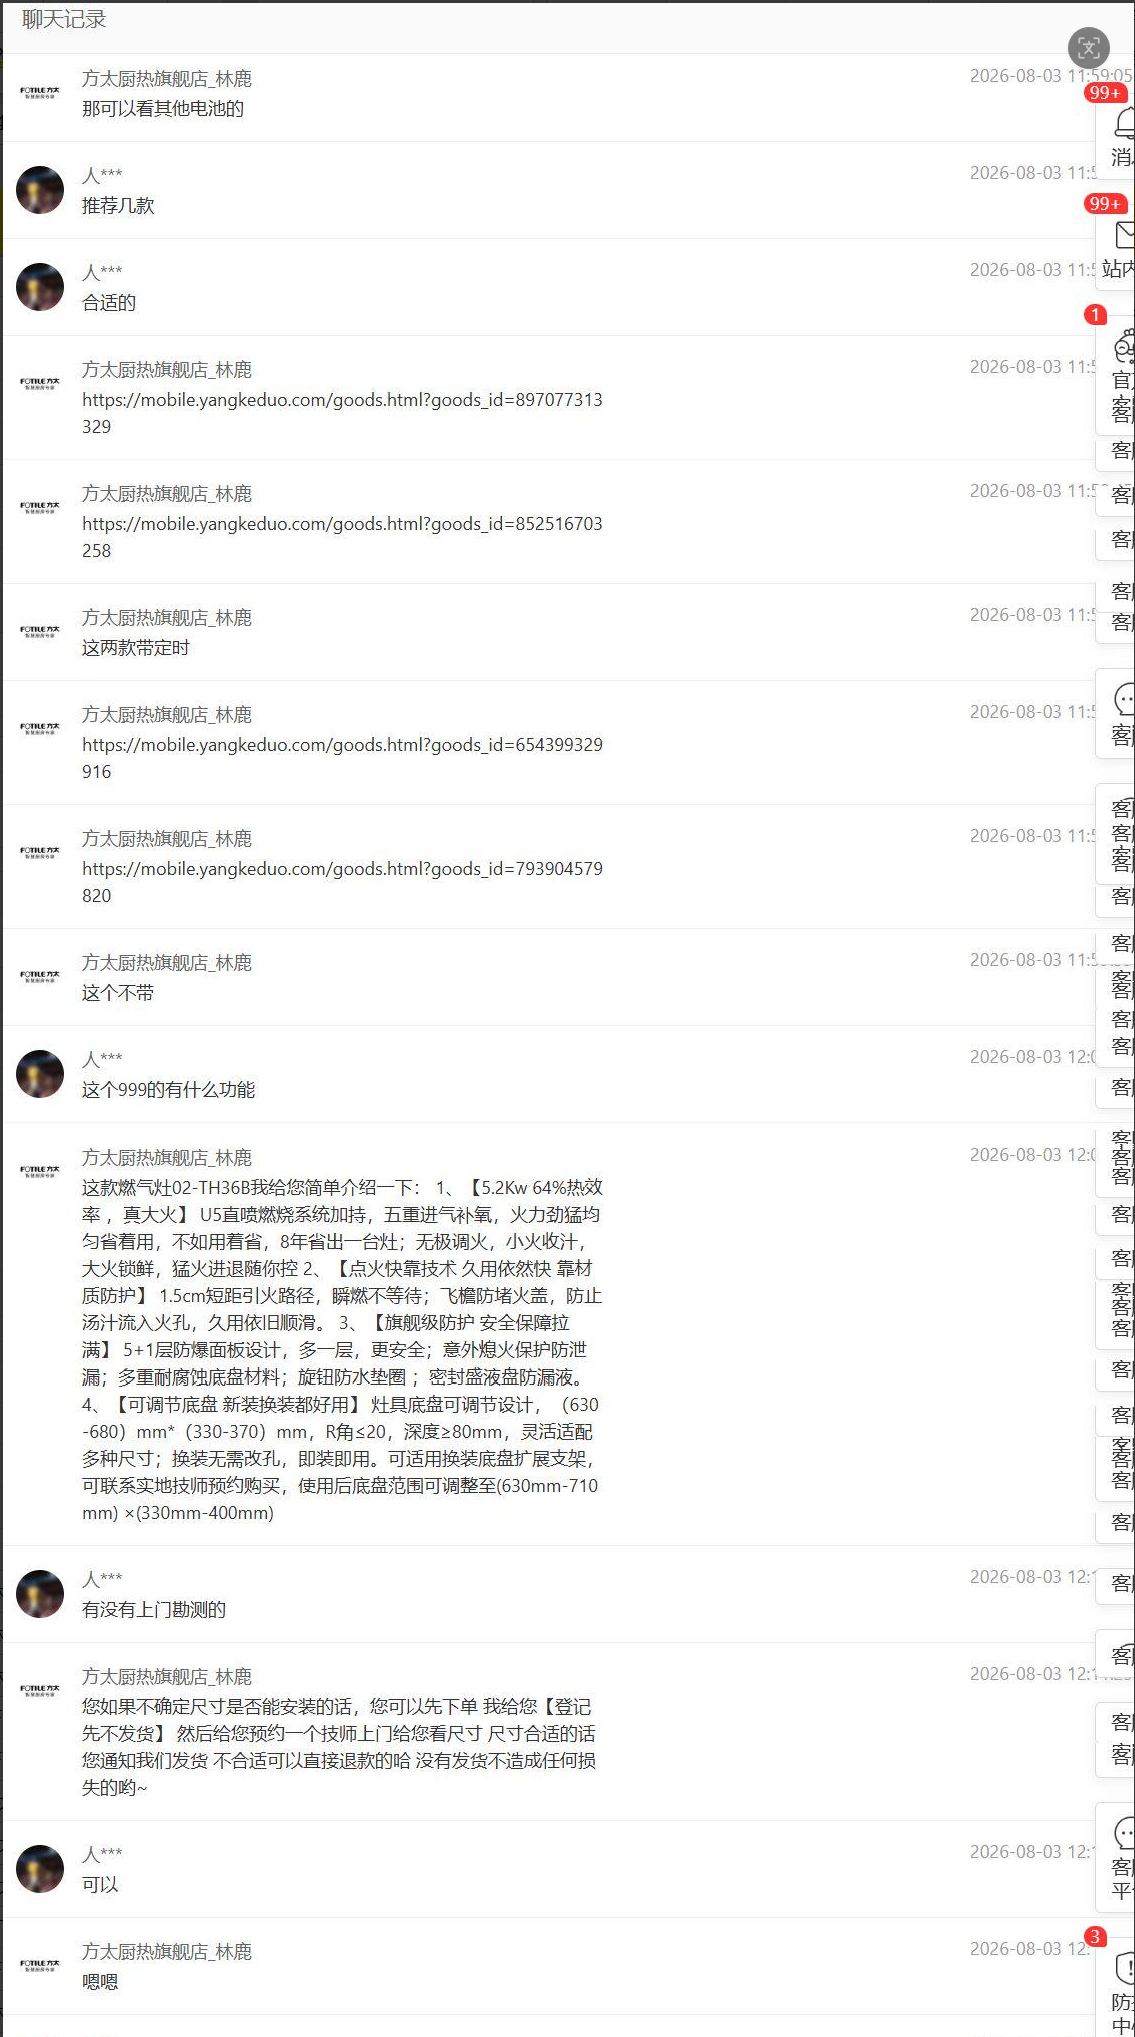
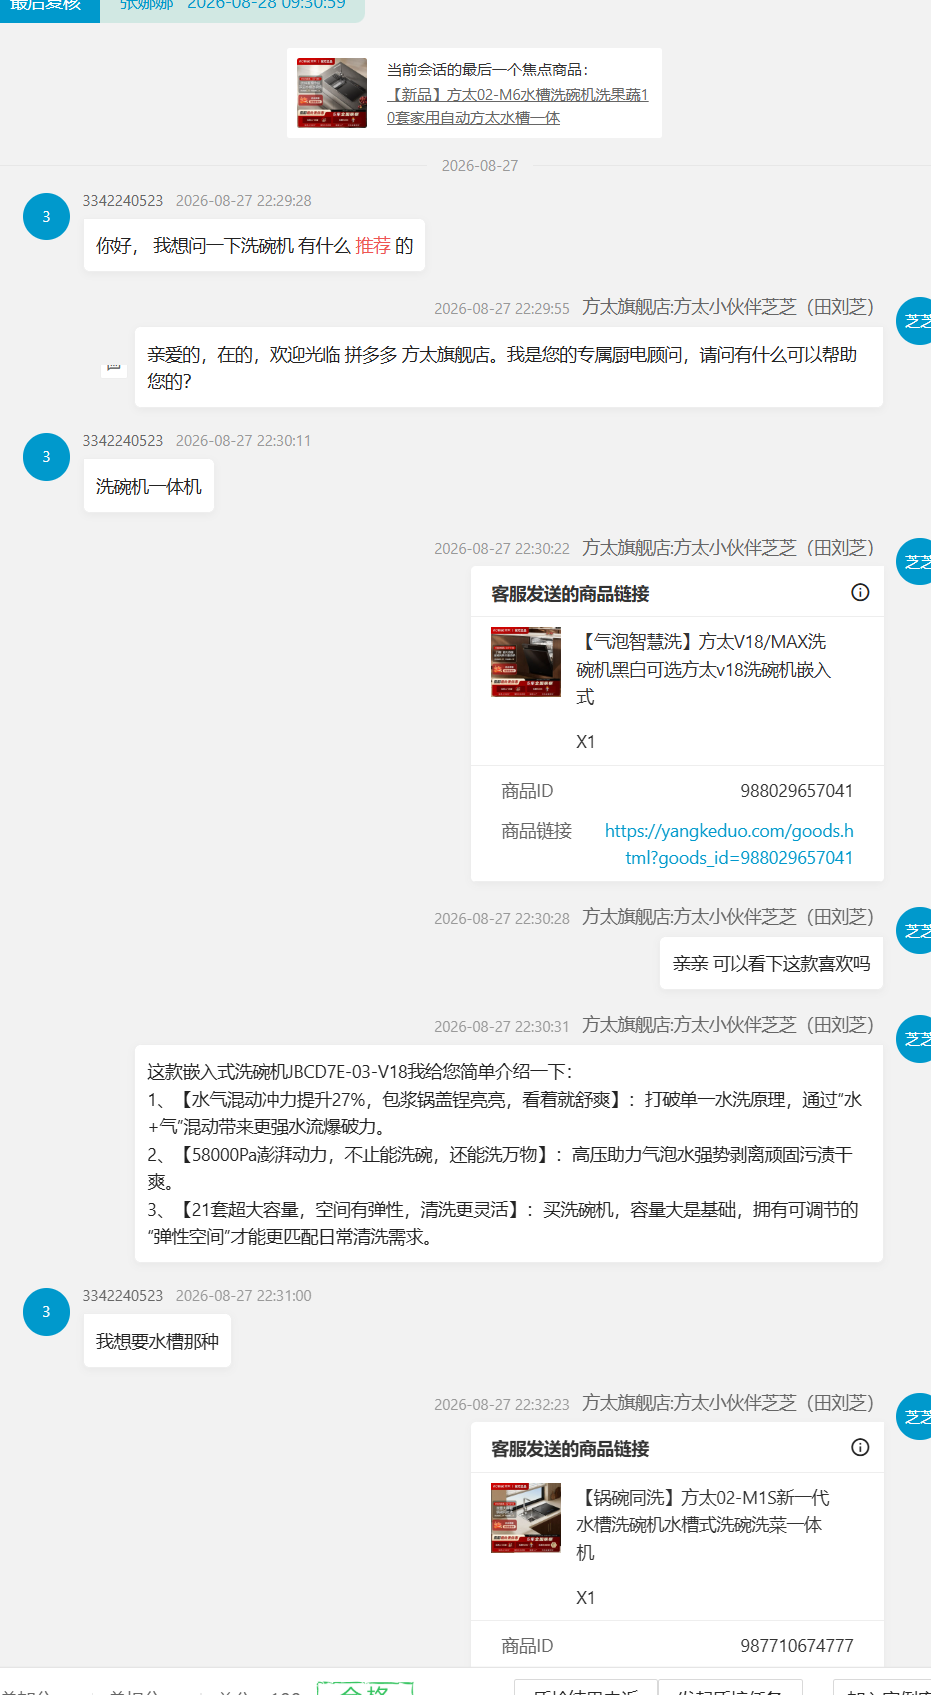
Replace needs-discovery case

diff --git a/海亿代理商客服质检数据看板.html b/海亿代理商客服质检数据看板.html
@@ -439,8 +439,8 @@ canvas{max-height:330px;}
 <div class="weak-section" id="weak-analysis">
   <div class="section-title">板块五 · 典型案例</div>
   <div class="weak-card">
-    <div class="weak-card-header"><div class="weak-card-icon weak-icon-red">1</div><div class="weak-card-title">需求挖掘</div><div class="weak-card-subtitle">未挖掘直接推荐</div></div>
-    <div class="case-item"><div class="case-item-img"><img src="haiyi-assets/needs-direct-recommendation.png" alt="需求挖掘案例：未挖掘直接推荐，点击查看完整聊天截图" loading="lazy" tabindex="0" role="button" title="点击查看完整聊天截图"></div><div class="case-item-tag case-item-tag-red">未挖掘直接推荐</div><div class="case-item-text"><b>案例说明：</b>截图中，顾客提出“推荐几款”“合适的”后，客服连续发送多款商品链接，仅简单区分是否带定时，未先追问预算、功能偏好及安装条件。直至顾客追问具体型号功能和上门勘测，才补充长段产品介绍及测量安排。<br><b>改善建议：</b>推荐前先确认顾客的预算、使用需求和安装条件，再筛选适配型号，说明推荐理由与关键差异。</div></div>
+    <div class="weak-card-header"><div class="weak-card-icon weak-icon-red">1</div><div class="weak-card-title">需求挖掘</div><div class="weak-card-subtitle">未确认需求即推荐商品</div></div>
+    <div class="case-item"><div class="case-item-img"><img src="haiyi-assets/needs-direct-recommendation.png" alt="需求挖掘案例：未确认需求即推荐商品，点击查看完整聊天截图" loading="lazy" tabindex="0" role="button" title="点击查看完整聊天截图"></div><div class="case-item-tag case-item-tag-red">未确认需求即推荐商品</div><div class="case-item-text"><b>案例说明：</b>顾客仅提出想了解“洗碗机一体机”，客服未进一步确认顾客偏好的机型、容量、安装空间及预算，便直接发送商品链接并展开产品介绍。顾客随后明确表示“我要水槽那种”，反映前期需求尚未核实清楚。<br><b>改善建议：</b>先通过机型偏好、使用人数、安装空间和预算等问题确认需求，再推荐匹配产品，并说明推荐理由与关键差异。</div></div>
   </div>
 
   <div class="weak-card weak-card--row" style="border-color:#fde68a;">
@@ -1043,7 +1043,7 @@ trendLine('chartTrendRate', TREND.rate_by_channel, TREND.rate_overall, 100, true
  const fourCanvas=qs('#chartFour'), fourChartGrid=fourCanvas.closest('.grid-2'); fourChartGrid.style.gridTemplateColumns='1fr'; const fourChart=Chart.getChart&&Chart.getChart(fourCanvas); if(fourChart)fourChart.resize();
  scoreTrendGrid.insertAdjacentHTML('afterend','<div class="matrix-note"><b>趋势小结：</b>两家有历史数据店铺的服务态度均保持在 7 分；方太电器旗舰店需求挖掘在 8 月降至 3.50 分，应优先补齐需求确认动作。</div>');
  const rateTrendGrid=qsa('.score-trend-grid')[1]; rateTrendGrid.classList.add('score-trend-grid--three'); rateTrendCard.classList.add('score-trend-card'); rateTrendCard.style.margin='0'; rateTrendCanvas.style.height='220px'; rateTrendGrid.prepend(rateTrendCard); if(rateTrendChart)rateTrendChart.resize(); const checkBarGrid=checkCanvas.closest('.grid-2'); checkBarGrid.style.gridTemplateColumns='1fr'; const checkBarChart=Chart.getChart&&Chart.getChart(checkCanvas); if(checkBarChart)checkBarChart.resize();
- const weak=qs('#weak-analysis'); weak.outerHTML="<div class=\"weak-section\" id=\"weak-analysis\">\n  <div class=\"section-title\">板块五 · 典型案例</div>\n  <div class=\"weak-card\">\n    <div class=\"weak-card-header\"><div class=\"weak-card-icon weak-icon-red\">1</div><div class=\"weak-card-title\">需求挖掘</div><div class=\"weak-card-subtitle\">未挖掘直接推荐</div></div>\n    <div class=\"case-item\"><div class=\"case-item-img\"><img src=\"haiyi-assets/needs-direct-recommendation.png\" alt=\"需求挖掘案例：未挖掘直接推荐，点击查看完整聊天截图\" loading=\"lazy\" tabindex=\"0\" role=\"button\" title=\"点击查看完整聊天截图\"></div><div class=\"case-item-tag case-item-tag-red\">未挖掘直接推荐</div><div class=\"case-item-text\"><b>案例说明：</b>截图中，顾客提出“推荐几款”“合适的”后，客服连续发送多款商品链接，仅简单区分是否带定时，未先追问预算、功能偏好及安装条件。直至顾客追问具体型号功能和上门勘测，才补充长段产品介绍及测量安排。<br><b>改善建议：</b>推荐前先确认顾客的预算、使用需求和安装条件，再筛选适配型号，说明推荐理由与关键差异。</div></div>\n  </div>\n\n  <div class=\"weak-card weak-card--row\" style=\"border-color:#fde68a;\">\n    <div class=\"weak-card-header\"><div class=\"weak-card-icon weak-icon-orange\">2</div><div class=\"weak-card-title\">推荐介绍</div><div class=\"weak-card-subtitle\">会话备注中出现最频繁的表达问题 · 8 项</div></div>\n    <div class=\"case-item\"><div class=\"case-item-img\"><img src=\"haiyi-assets/recommendation-long-text.png\" alt=\"推荐介绍案例：使用长段话术，未使用物料图\" loading=\"lazy\" tabindex=\"0\" role=\"button\" title=\"点击查看完整聊天截图\"></div><div class=\"case-item-tag case-item-tag-orange\">使用长段话术，未使用物料图</div><div class=\"case-item-text\"><b>案例说明：</b>顾客提出“讲讲它的功能”后，客服一次性发送包含控烟、风量风压、降噪、烟灶联动及清洁等多项内容的长段介绍；截图所示介绍未搭配物料图辅助说明，功能信息密集，顾客难以快速抓住重点，随后客服直接转入催单话术。<br><b>改善建议：</b>先确认顾客最关注的功能，分点介绍核心卖点，并搭配对应的功能物料图，说明对实际使用的帮助，再确认顾客是否理解、是否还有疑问。</div></div>\n    <div class=\"case-item\"><div class=\"case-item-img\"><img src=\"haiyi-assets/recommendation-no-visual.png\" alt=\"推荐介绍案例：推荐介绍未使用物料图，点击查看完整聊天截图\" loading=\"lazy\" tabindex=\"0\" role=\"button\" title=\"点击查看完整聊天截图\"></div><div class=\"case-item-tag case-item-tag-orange\">推荐介绍未使用物料图</div><div class=\"case-item-text\"><b>案例说明：</b>顾客明确提出所在楼层及“味道少、不呛人、厨房台面少沾油污”的需求，客服推荐 F3，发送商品卡片并以文字介绍风量、静压和联动等参数。截图中未见针对排烟、控烟效果的功能物料图辅助讲解，对这些功能如何解决顾客实际问题的解释不足。商品卡片虽包含商品图片，但未起到专项功能说明的作用。<br><b>改善建议：</b>围绕顾客关注的排烟和控烟效果，搭配对应的功能示意图或演示物料，逐项说明卖点与需求的对应关系，并结合安装环境确认适配性。</div></div>\n  </div>\n\n  <div class=\"weak-card\">\n    <div class=\"weak-card-header\"><div class=\"weak-card-icon weak-icon-blue\">3</div><div class=\"weak-card-title\">网点核对与尺寸核对</div></div>\n    <div class=\"case-list\">\n    <div class=\"case-item\"><div class=\"card-title\">网点核对</div><div class=\"case-item-img\"><img src=\"haiyi-assets/network-installation-address.png\" alt=\"网点未核对：顾客询问安装，客服未询问地址，仅发送安装话术\" loading=\"lazy\" tabindex=\"0\" role=\"button\" title=\"点击查看完整聊天截图\"></div><div class=\"case-item-tag case-item-tag-blue\">未询问地址，仅发送安装话术</div><div class=\"case-item-text\"><b>案例说明：</b>顾客询问“价格包安装？质保多少年？”，客服回复服务范围内免费安装、预约方式及费用提示，但截图所示回复未先询问顾客地址，也未确认该地址是否在服务覆盖范围内。<br><b>改善建议：</b>先询问安装所在的省、市、区县及乡镇或街道，核实服务覆盖情况后，再说明安装预约流程及费用范围。</div></div>\n    <div class=\"case-item\"><div class=\"card-title\">尺寸核对</div><div class=\"case-item-img\"><img src=\"haiyi-assets/dimensions-no-product-diagram.png\" alt=\"尺寸未核对：顾客看好款式后，未发送对应产品尺寸图完成确认\" loading=\"lazy\" tabindex=\"0\" role=\"button\" title=\"点击查看完整聊天截图\"></div><div class=\"case-item-tag case-item-tag-blue\">尺寸未核对 · 未发送对应产品尺寸图</div><div class=\"case-item-text\"><b>案例说明：</b>顾客已明确看好款式（用户补充背景）。截图中客服询问“家里尺寸预留好了嘛”，顾客表示“确定了就按照这个尺寸留”，客服仅回复确认并转入安装时间及下单话题；所示片段未见发送对应型号的产品尺寸图，也未见对具体预留尺寸进行核实，尺寸确认尚未完成。<br><b>改善建议：</b>顾客明确款式后，主动发送对应型号的产品尺寸及安装尺寸图，说明关键预留要求，并请顾客确认实际空间或装修预留方案是否匹配。</div></div>\n    </div>\n  </div>\n  <div class=\"weak-card\">\n    <div class=\"weak-card-header\"><div class=\"weak-card-icon weak-icon-red\">4</div><div class=\"weak-card-title\">风险案例</div><div class=\"weak-card-subtitle\">每日留言跟进</div></div>\n    <div class=\"case-item\"><div class=\"case-item-img\"><img src=\"haiyi-assets/risk-daily-follow-up.png\" alt=\"风险案例：每日留言跟进，点击放大查看完整聊天记录\" loading=\"lazy\" tabindex=\"0\" role=\"button\" title=\"点击查看完整聊天截图\"></div><div class=\"case-item-tag case-item-tag-red\">每日留言跟进 · 缺少回复仍持续触达</div><div class=\"case-item-text\"><b>案例说明：</b>截图所示记录中，顾客前期咨询后，客服在后续多日持续发送促销、产品介绍、活动物料及催单留言，期间未见顾客进一步回复。跟进未随客户反馈调整节奏，存在重复打扰、引发反感或投诉的风险。<br><b>改善建议：</b>结合顾客购买计划约定下次联系时间；客户未回复时适当拉长跟进间隔，减少重复促销信息，仅在有针对性的新信息或约定节点进行联系；客户明确拒绝后停止营销跟进。</div></div>\n  </div>\n</div>";
+ const weak=qs('#weak-analysis'); weak.outerHTML="<div class=\"weak-section\" id=\"weak-analysis\">\n  <div class=\"section-title\">板块五 · 典型案例</div>\n  <div class=\"weak-card\">\n    <div class=\"weak-card-header\"><div class=\"weak-card-icon weak-icon-red\">1</div><div class=\"weak-card-title\">需求挖掘</div><div class=\"weak-card-subtitle\">未确认需求即推荐商品</div></div>\n    <div class=\"case-item\"><div class=\"case-item-img\"><img src=\"haiyi-assets/needs-direct-recommendation.png\" alt=\"需求挖掘案例：未确认需求即推荐商品，点击查看完整聊天截图\" loading=\"lazy\" tabindex=\"0\" role=\"button\" title=\"点击查看完整聊天截图\"></div><div class=\"case-item-tag case-item-tag-red\">未确认需求即推荐商品</div><div class=\"case-item-text\"><b>案例说明：</b>顾客仅提出想了解“洗碗机一体机”，客服未进一步确认顾客偏好的机型、容量、安装空间及预算，便直接发送商品链接并展开产品介绍。顾客随后明确表示“我要水槽那种”，反映前期需求尚未核实清楚。<br><b>改善建议：</b>先通过机型偏好、使用人数、安装空间和预算等问题确认需求，再推荐匹配产品，并说明推荐理由与关键差异。</div></div>\n  </div>\n\n  <div class=\"weak-card weak-card--row\" style=\"border-color:#fde68a;\">\n    <div class=\"weak-card-header\"><div class=\"weak-card-icon weak-icon-orange\">2</div><div class=\"weak-card-title\">推荐介绍</div><div class=\"weak-card-subtitle\">会话备注中出现最频繁的表达问题 · 8 项</div></div>\n    <div class=\"case-item\"><div class=\"case-item-img\"><img src=\"haiyi-assets/recommendation-long-text.png\" alt=\"推荐介绍案例：使用长段话术，未使用物料图\" loading=\"lazy\" tabindex=\"0\" role=\"button\" title=\"点击查看完整聊天截图\"></div><div class=\"case-item-tag case-item-tag-orange\">使用长段话术，未使用物料图</div><div class=\"case-item-text\"><b>案例说明：</b>顾客提出“讲讲它的功能”后，客服一次性发送包含控烟、风量风压、降噪、烟灶联动及清洁等多项内容的长段介绍；截图所示介绍未搭配物料图辅助说明，功能信息密集，顾客难以快速抓住重点，随后客服直接转入催单话术。<br><b>改善建议：</b>先确认顾客最关注的功能，分点介绍核心卖点，并搭配对应的功能物料图，说明对实际使用的帮助，再确认顾客是否理解、是否还有疑问。</div></div>\n    <div class=\"case-item\"><div class=\"case-item-img\"><img src=\"haiyi-assets/recommendation-no-visual.png\" alt=\"推荐介绍案例：推荐介绍未使用物料图，点击查看完整聊天截图\" loading=\"lazy\" tabindex=\"0\" role=\"button\" title=\"点击查看完整聊天截图\"></div><div class=\"case-item-tag case-item-tag-orange\">推荐介绍未使用物料图</div><div class=\"case-item-text\"><b>案例说明：</b>顾客明确提出所在楼层及“味道少、不呛人、厨房台面少沾油污”的需求，客服推荐 F3，发送商品卡片并以文字介绍风量、静压和联动等参数。截图中未见针对排烟、控烟效果的功能物料图辅助讲解，对这些功能如何解决顾客实际问题的解释不足。商品卡片虽包含商品图片，但未起到专项功能说明的作用。<br><b>改善建议：</b>围绕顾客关注的排烟和控烟效果，搭配对应的功能示意图或演示物料，逐项说明卖点与需求的对应关系，并结合安装环境确认适配性。</div></div>\n  </div>\n\n  <div class=\"weak-card\">\n    <div class=\"weak-card-header\"><div class=\"weak-card-icon weak-icon-blue\">3</div><div class=\"weak-card-title\">网点核对与尺寸核对</div></div>\n    <div class=\"case-list\">\n    <div class=\"case-item\"><div class=\"card-title\">网点核对</div><div class=\"case-item-img\"><img src=\"haiyi-assets/network-installation-address.png\" alt=\"网点未核对：顾客询问安装，客服未询问地址，仅发送安装话术\" loading=\"lazy\" tabindex=\"0\" role=\"button\" title=\"点击查看完整聊天截图\"></div><div class=\"case-item-tag case-item-tag-blue\">未询问地址，仅发送安装话术</div><div class=\"case-item-text\"><b>案例说明：</b>顾客询问“价格包安装？质保多少年？”，客服回复服务范围内免费安装、预约方式及费用提示，但截图所示回复未先询问顾客地址，也未确认该地址是否在服务覆盖范围内。<br><b>改善建议：</b>先询问安装所在的省、市、区县及乡镇或街道，核实服务覆盖情况后，再说明安装预约流程及费用范围。</div></div>\n    <div class=\"case-item\"><div class=\"card-title\">尺寸核对</div><div class=\"case-item-img\"><img src=\"haiyi-assets/dimensions-no-product-diagram.png\" alt=\"尺寸未核对：顾客看好款式后，未发送对应产品尺寸图完成确认\" loading=\"lazy\" tabindex=\"0\" role=\"button\" title=\"点击查看完整聊天截图\"></div><div class=\"case-item-tag case-item-tag-blue\">尺寸未核对 · 未发送对应产品尺寸图</div><div class=\"case-item-text\"><b>案例说明：</b>顾客已明确看好款式（用户补充背景）。截图中客服询问“家里尺寸预留好了嘛”，顾客表示“确定了就按照这个尺寸留”，客服仅回复确认并转入安装时间及下单话题；所示片段未见发送对应型号的产品尺寸图，也未见对具体预留尺寸进行核实，尺寸确认尚未完成。<br><b>改善建议：</b>顾客明确款式后，主动发送对应型号的产品尺寸及安装尺寸图，说明关键预留要求，并请顾客确认实际空间或装修预留方案是否匹配。</div></div>\n    </div>\n  </div>\n  <div class=\"weak-card\">\n    <div class=\"weak-card-header\"><div class=\"weak-card-icon weak-icon-red\">4</div><div class=\"weak-card-title\">风险案例</div><div class=\"weak-card-subtitle\">每日留言跟进</div></div>\n    <div class=\"case-item\"><div class=\"case-item-img\"><img src=\"haiyi-assets/risk-daily-follow-up.png\" alt=\"风险案例：每日留言跟进，点击放大查看完整聊天记录\" loading=\"lazy\" tabindex=\"0\" role=\"button\" title=\"点击查看完整聊天截图\"></div><div class=\"case-item-tag case-item-tag-red\">每日留言跟进 · 缺少回复仍持续触达</div><div class=\"case-item-text\"><b>案例说明：</b>截图所示记录中，顾客前期咨询后，客服在后续多日持续发送促销、产品介绍、活动物料及催单留言，期间未见顾客进一步回复。跟进未随客户反馈调整节奏，存在重复打扰、引发反感或投诉的风险。<br><b>改善建议：</b>结合顾客购买计划约定下次联系时间；客户未回复时适当拉长跟进间隔，减少重复促销信息，仅在有针对性的新信息或约定节点进行联系；客户明确拒绝后停止营销跟进。</div></div>\n  </div>\n</div>";
  qsa('.matrix-table .case-item-img').forEach(x=>x.textContent='案例截图待补充');
 })();
 </script><script id="haiyi-august-rankings">
